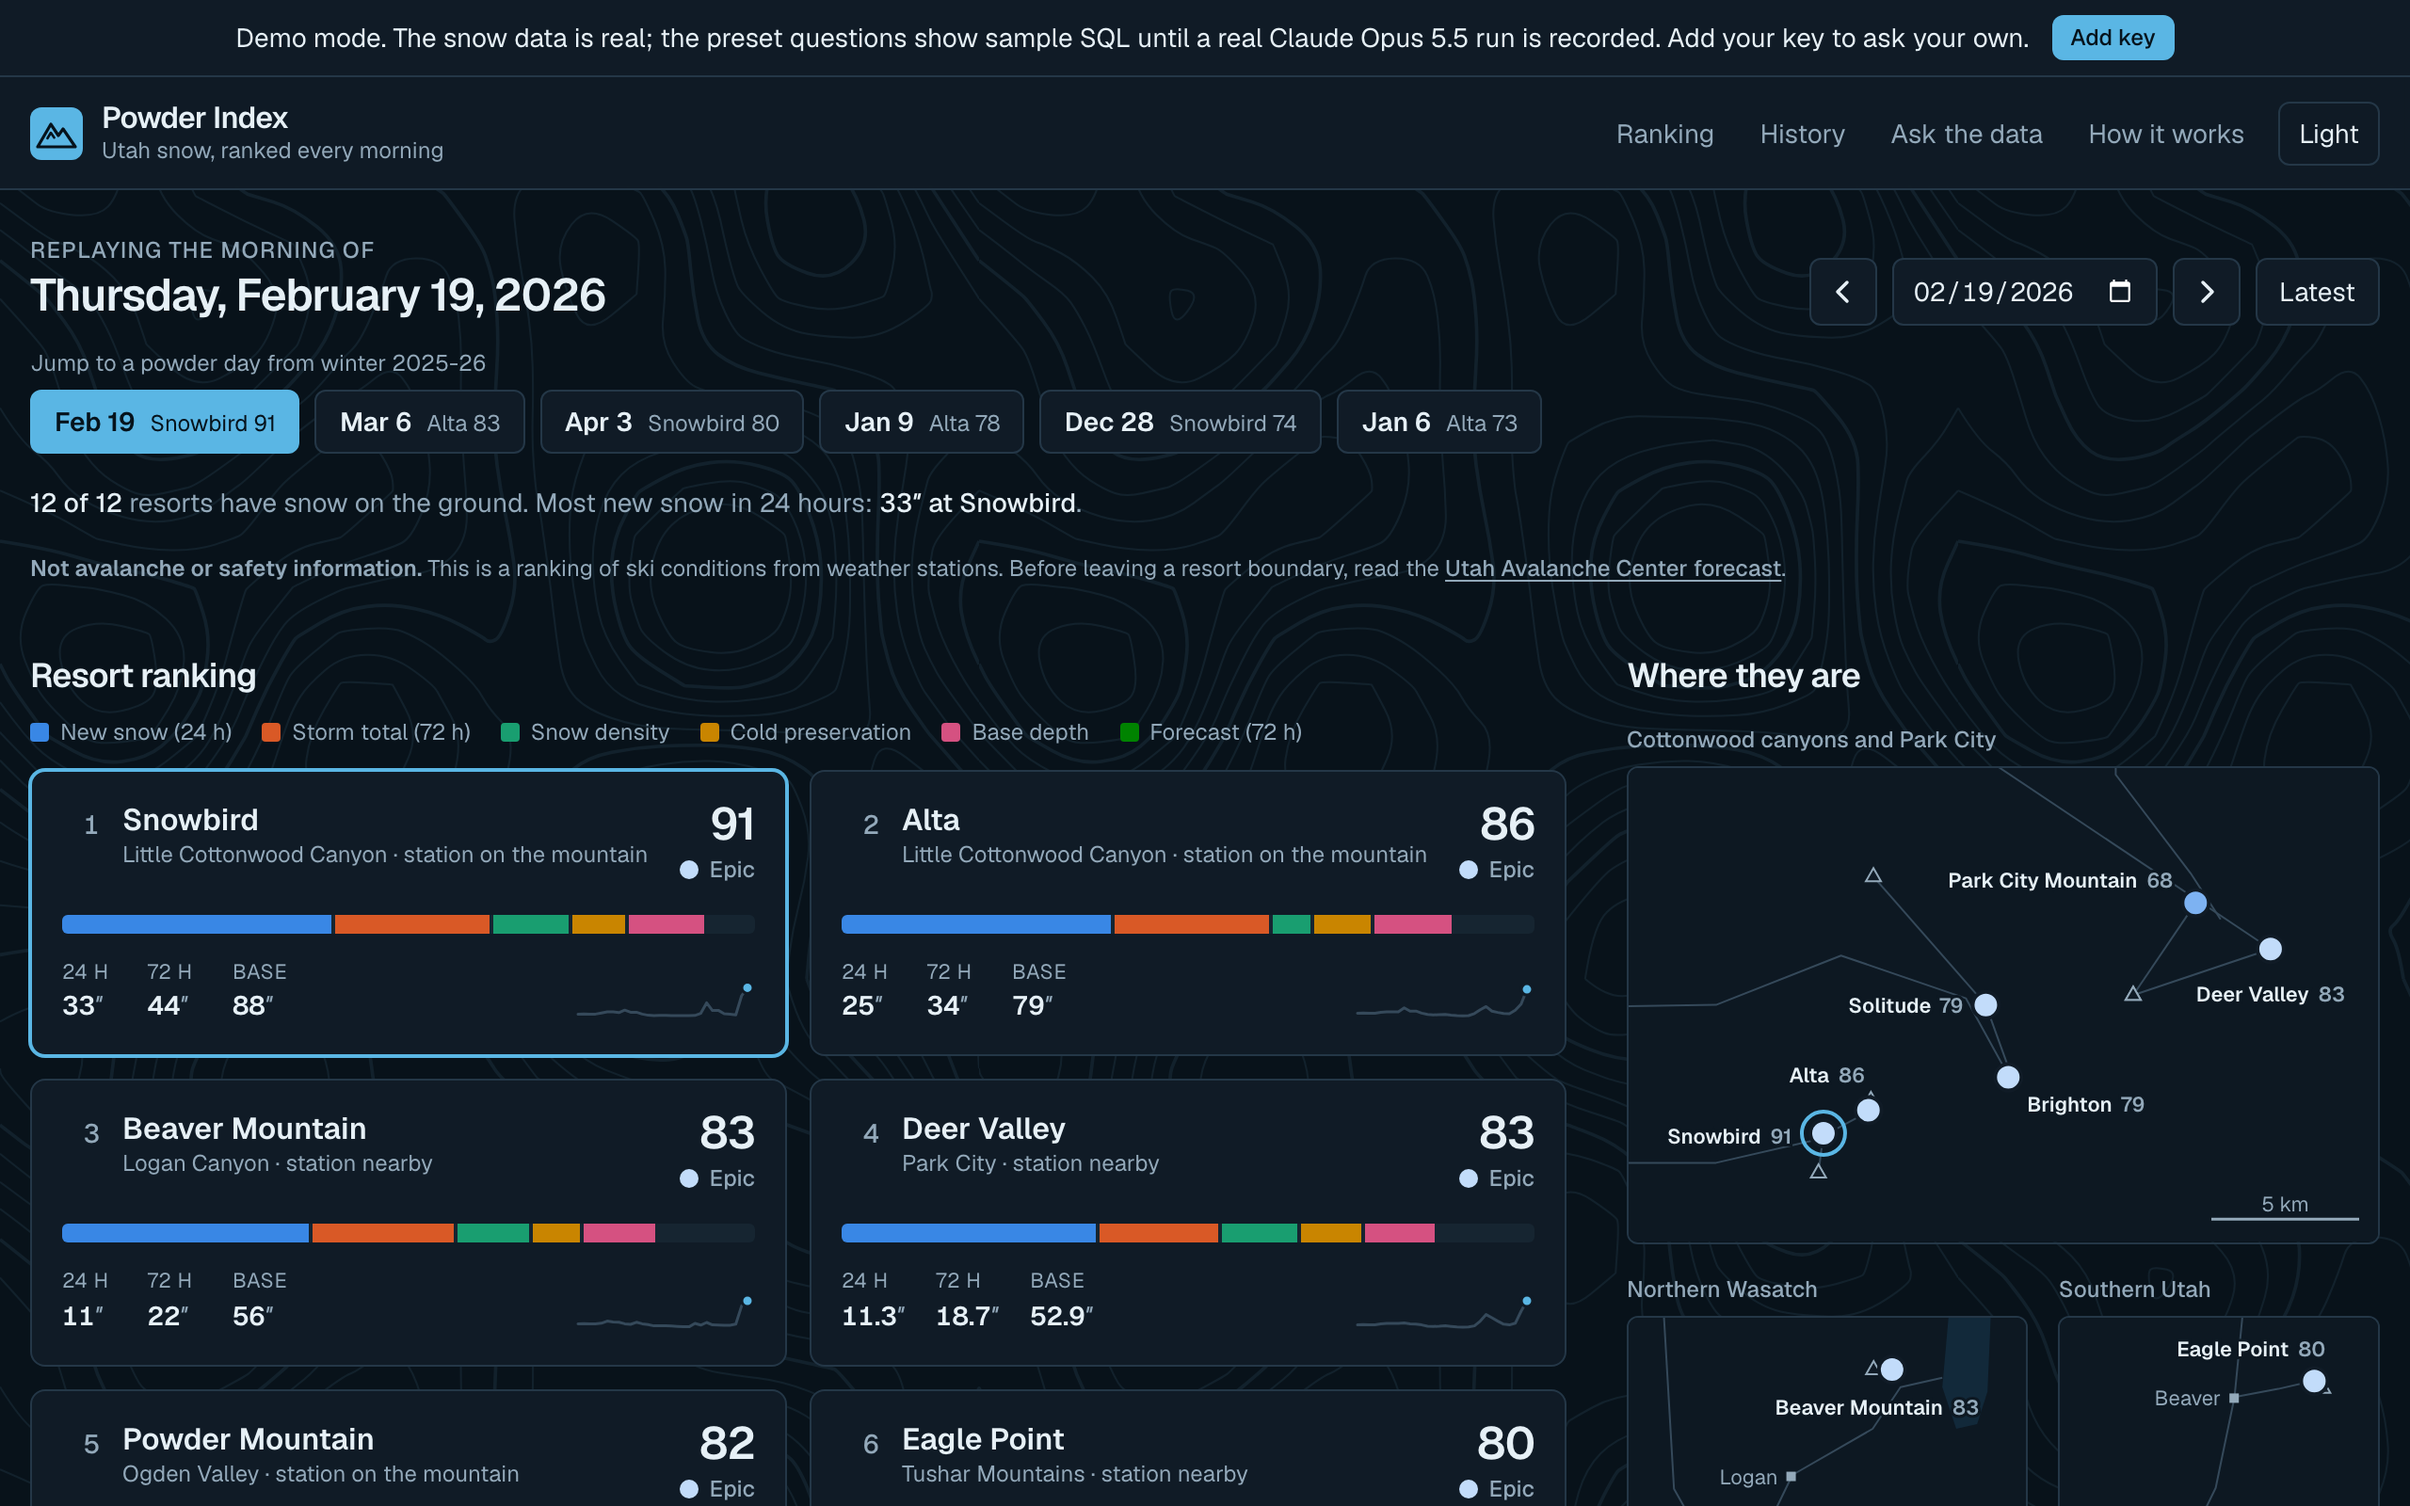
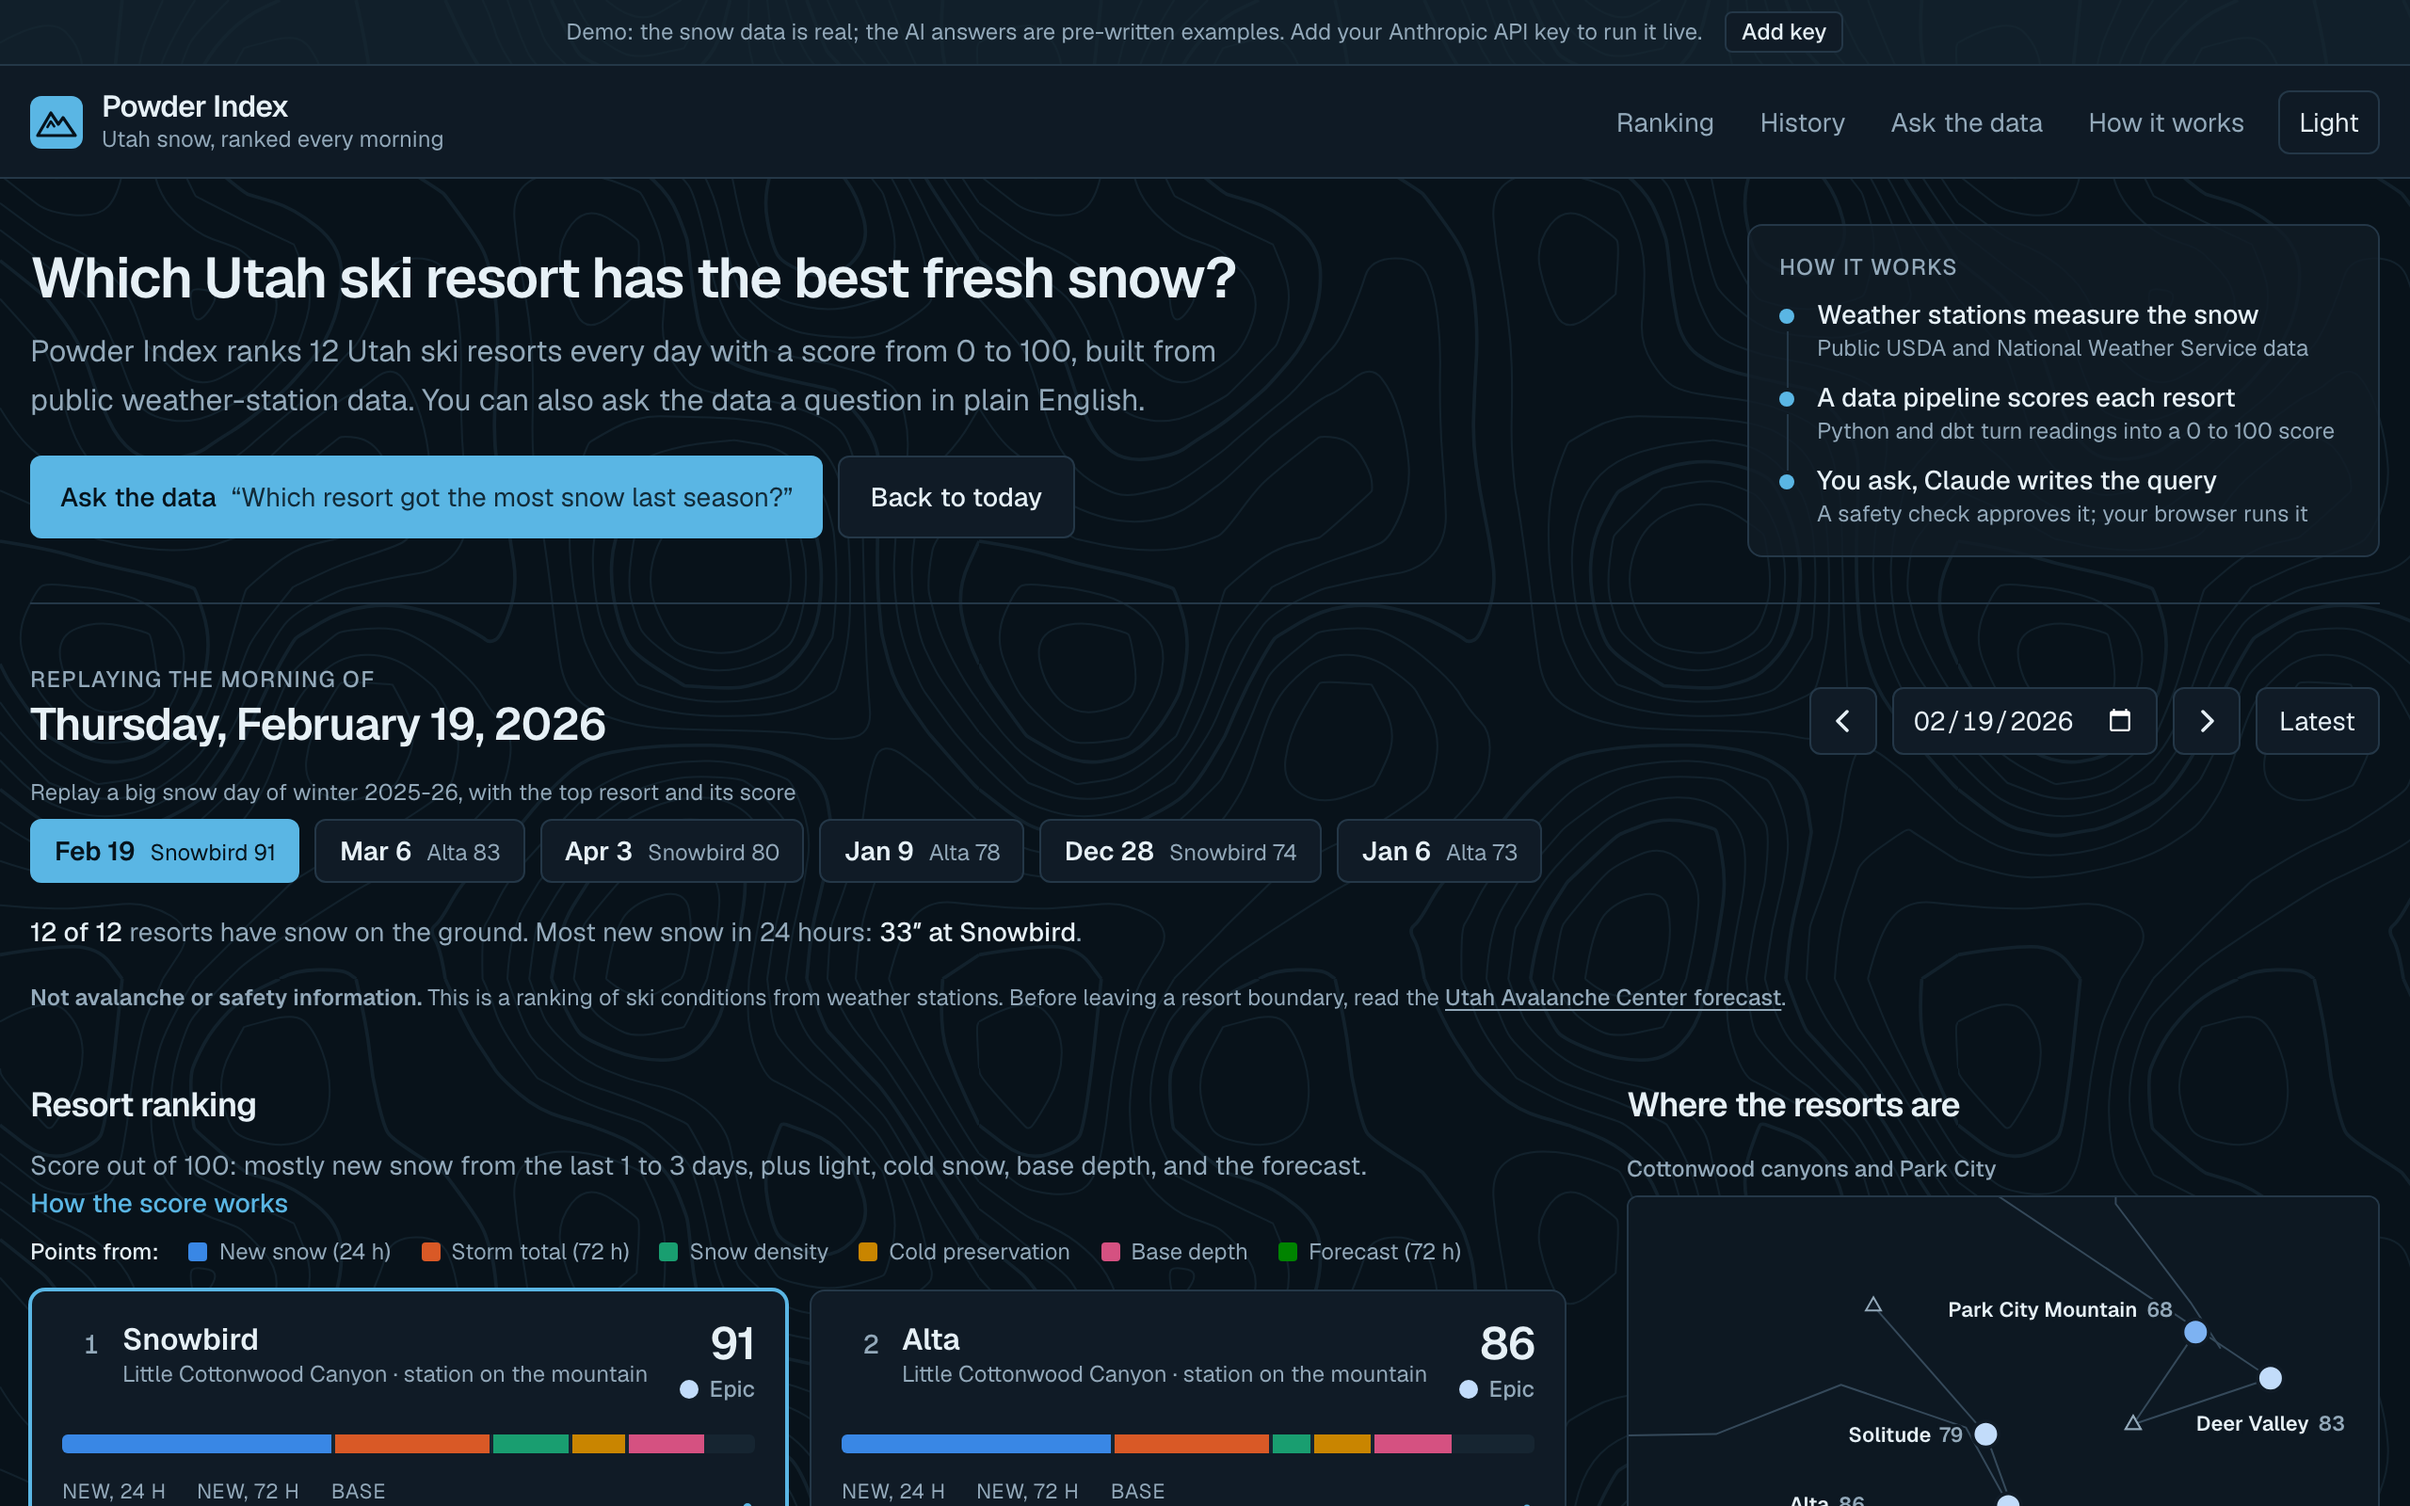
docs: recruiter-first README top and retaken screenshots
Pitch, badges, captioned hero, and a plain "What it does" come first. The
live-demo badge now says coming soon and links to Run locally; every
undeployed Vercel link is gone. "Try it" gives the local commands and the
new GIF, which shows the one-click demo from the first screen (2.7 MB).
Also corrects the pipeline status: the workflow has run on GitHub, while
Pages is not switched on yet.

diff --git a/README.md b/README.md
@@ -1,27 +1,41 @@
 # Powder Index
 
-> An end-to-end data pipeline that turns public snowpack and forecast data into a daily powder ranking for twelve Utah ski resorts, with an AI analyst you can ask in plain English.
+> Which Utah ski resort has the best fresh snow? Powder Index ranks twelve resorts every day with a score from 0 to 100, built from public weather-station data, and lets you ask the data questions in plain English.
 
 [![CI](https://github.com/davezagin-max/powder-index/actions/workflows/ci.yml/badge.svg)](https://github.com/davezagin-max/powder-index/actions/workflows/ci.yml)
 [![Pipeline](https://github.com/davezagin-max/powder-index/actions/workflows/pipeline.yml/badge.svg)](https://github.com/davezagin-max/powder-index/actions/workflows/pipeline.yml)
 [![License: MIT](https://img.shields.io/badge/license-MIT-blue.svg)](LICENSE)
-[![Live demo](https://img.shields.io/badge/demo-live-brightgreen.svg)](https://powder-index.vercel.app)
+[![Live demo: coming soon](https://img.shields.io/badge/live%20demo-coming%20soon-lightgrey.svg)](#run-locally)
 
-![Powder Index replaying 19 February 2026: Snowbird ranked first with 33 inches overnight, each score split into its components, and a map of the resorts](docs/hero.png)
+![Powder Index replaying 19 February 2026: the headline question, the two demo buttons, and the resort ranking with Snowbird first at 91 out of 100](docs/hero.png)
 
-## Try it in 10 seconds
+*Replaying 19 February 2026, the best day of last winter: Snowbird ranks first with 33 inches of new snow, each colored bar shows where a resort's points came from, and the map shows where the resorts are.*
 
-**[Open the live demo](https://powder-index.vercel.app)**: no key, no sign-up. The page opens on the latest morning report, which in October is an off-season one. Click **Replay Feb 19: 33″ overnight** (or the **Feb 19** chip above it) to jump to the best day of last winter, click a resort card to see how its score adds up, then scroll to **Ask the data** and pick a question. The SQL runs in your browser, in DuckDB-WASM, against the same Parquet files the pipeline publishes.
+## What it does
 
-![Replaying the best day of last winter, opening a resort, and asking the data a question](docs/demo.gif)
+- **Ranks Utah ski resorts by fresh snow, every day.** Each of twelve resorts gets a score from 0 to 100, mostly for new snow in the last one to three days, plus points for light, cold snow, a deep base, and the forecast.
+- **Runs on real public data.** A daily data pipeline (Python, dbt, DuckDB) pulls snow readings from USDA weather stations and the National Weather Service forecast, and publishes the results as files. No server, no database to keep running.
+- **Replays any day of last winter,** with one click to the biggest snow days, so the page is interesting even in the off-season.
+- **Answers questions in plain English.** Claude Opus 5.5 turns a question into a database query (SQL), a safety check approves it, and your browser runs it on the real data and draws the chart. The AI never sees the data and never states a number.
 
-Demo data in this commit is hand-written sample output; `pnpm record` replaces it with real Claude Opus 5.5 runs.
+## Try it
 
-What that means exactly:
+The live demo is coming soon. Until then it runs locally in demo mode, with no API key (needs Node and pnpm; full steps under [Run locally](#run-locally)):
 
-- **Real:** every number on the dashboard. The snowpack readings are NRCS SNOTEL data and the forecast is from the National Weather Service, pulled on 11 October 2026 and committed as a snapshot. The marts are built from it by dbt, and a test rebuilds them and compares.
-- **Real:** every row and chart under "Ask the data". A preset's SQL is executed when you click it; nothing is precomputed.
-- **Hand-written for now:** the SQL, chart choice, and title behind the eight preset questions, and the two failed attempts in the sample retry trail. Each went through the real validator, and the errors shown are the ones that SQL really gets back. The app labels them "sample", never "recorded", and the labels follow each fixture's own flag.
+```bash
+pnpm install
+pnpm dev        # then open http://localhost:3140
+```
+
+The page opens on today's report, which in October is an off-season one. Click **Replay the best day of last winter**, then **Ask the data**:
+
+![The first screen, then one click to replay 19 February 2026 and a second click that asks which resort got the most snow last season, answered with a bar chart and the SQL behind it](docs/demo.gif)
+
+**What is real and what is a sample.** Demo data in this commit is hand-written sample output; `pnpm record` replaces it with real Claude Opus 5.5 runs.
+
+- **Real:** every number on the dashboard. The snow readings are NRCS SNOTEL data and the forecast is from the National Weather Service, pulled on 11 October 2026 and committed as a snapshot. The tables are built from it by dbt, and a test rebuilds them and compares.
+- **Real:** every row and chart under "Ask the data". Clicking a question runs its SQL in your browser, in DuckDB-WASM, against the same Parquet files the pipeline publishes; nothing is precomputed.
+- **Pre-written for now:** the SQL, chart choice, and title behind the eight example questions, and the two failed attempts in the sample retry trail. Each went through the real validator, and the errors shown are the ones that SQL really gets back. The app labels them as examples, never as recorded runs, and the labels follow each fixture's own flag.
 - **Not yet run against the real API:** the live Claude path. It is complete and covered by tests with a scripted client, and the UI was driven through every live state against a mocked endpoint, but no API key existed when this was built.
 
 ## Why it's interesting
@@ -40,7 +54,7 @@ What that means exactly:
 | Dark mode, with chart colors re-stepped for the dark surface | Off-season is a designed state: why every score is near zero, and one click to last winter |
 
 <p>
-  <img src="docs/mobile.png" alt="Powder Index on a phone in dark mode: the date bar and the top-ranked resort" width="260" />
+  <img src="docs/mobile.png" alt="Powder Index on a phone in dark mode: the headline question, the Ask the data button, and the date bar" width="260" />
   <img src="docs/mobile-ask.png" alt="Powder Index on a phone: a grouped bar chart answer and its SQL" width="260" />
 </p>
 
@@ -93,7 +107,7 @@ There is no server in the data path. The dashboard is a static page that reads f
 Each ramp is linear between its two anchors and clamped to 0..1. Three details matter:
 
 - **Lightness needs something to be light.** The density ramp is multiplied by `min(storm total ÷ 6 in, 1)`, so two inches of very dry snow does not score like a powder day. Cold counts only when there is snow on the ground.
-- **A forecast exists only for the day the pipeline ran.** On a replayed day that component is unknown, so it is left out and the other five weights are rescaled. That is why new snow is worth 38.9 points in the hero screenshot and 35 on the latest day.
+- **A forecast exists only for the day the pipeline ran.** On a replayed day that component is unknown, so it is left out and the other five weights are rescaled. That is why new snow is worth 38.9 points in the score-breakdown screenshot above and 35 on the latest day.
 - **The breakdown always adds up.** The headline score is the sum of the rounded parts, not a separately rounded total.
 
 Tiers: epic 75+, powder day 55+, soft turns 35+, firm 15+, off below that. Last winter produced 50 resort-days at "powder day" or better out of 4,380.
@@ -143,7 +157,7 @@ pnpm dev:api    # optional, in a second terminal: the Python function, for live 
 ## Tests & quality
 
 ```bash
-pnpm check                                   # lint, typecheck, 131 unit tests, production build
+pnpm check                                   # lint, typecheck, 133 unit tests, production build
 cd pipeline && uv run pytest -q              # 295 tests, including a full offline pipeline run
 ```
 
@@ -159,13 +173,13 @@ CI runs the same checks plus a gitleaks secret scan on every push.
 
 - **A station is a proxy, not the resort's stake.** New snow here is settled depth at midnight at a station near the resort. It reads well below a resort's own total, which is measured on a cleared board through the storm: the Alta station's season estimate is 238 inches. Rankings between resorts are more trustworthy than the absolute numbers.
 - **The weights are a judgment call.** They are one CSV file, documented and tested, but nobody has fitted them to skier ratings. A next step is to backtest them against resort-reported powder days.
-- **The live Claude path and the two deployments are unproven.** No key existed, and nothing was pushed or deployed. The function has run locally under uvicorn but never on Vercel, and the pipeline workflow has never run on GitHub; each of its commands was run locally.
+- **The live Claude path and the site deployment are unproven.** No key existed, and the site is not deployed yet. The function has run locally under uvicorn but never on Vercel. The pipeline workflow has run on GitHub on its daily schedule and pushed to the `gh-pages` branch, but GitHub Pages is not switched on yet, so the site uses the data bundled with it.
 - **The firewall bounds what a query can touch, not how long it runs.** A legal three-way self-join is still a SELECT. The browser kills a query after 10 seconds, and it is the visitor's own tab that does the work.
 - **Column names are not validated on purpose.** A wrong column is a correctness error that DuckDB reports, and that error is what the self-correction loop feeds back.
 - **Presets are pinned to winter 2025-26.** The pipeline keeps the previous water year plus the current one, so in October 2027 those dates leave the window and the presets need re-recording.
 - **DuckDB-WASM is about 7 MB compressed.** It loads on the first question, not on page load, so the dashboard itself stays light.
 - **Forecast days use a fixed UTC-7 offset** to match SNOTEL's standard-time day, so in summer the forecast day starts an hour off local time.
-- Until the pipeline workflow has published once, the browser console shows one failed request for the published manifest. The page falls back to the bundled data.
+- Until GitHub Pages serves the published data, the browser console shows one failed request for the published manifest. The page falls back to the bundled data.
 - Rate limiting is in memory per server instance: enough to blunt abuse of a demo, not a global quota.
 - Next: record the fixtures with a key, fit the weights, add an elevation adjustment between station and summit, and extend past Utah.
 
